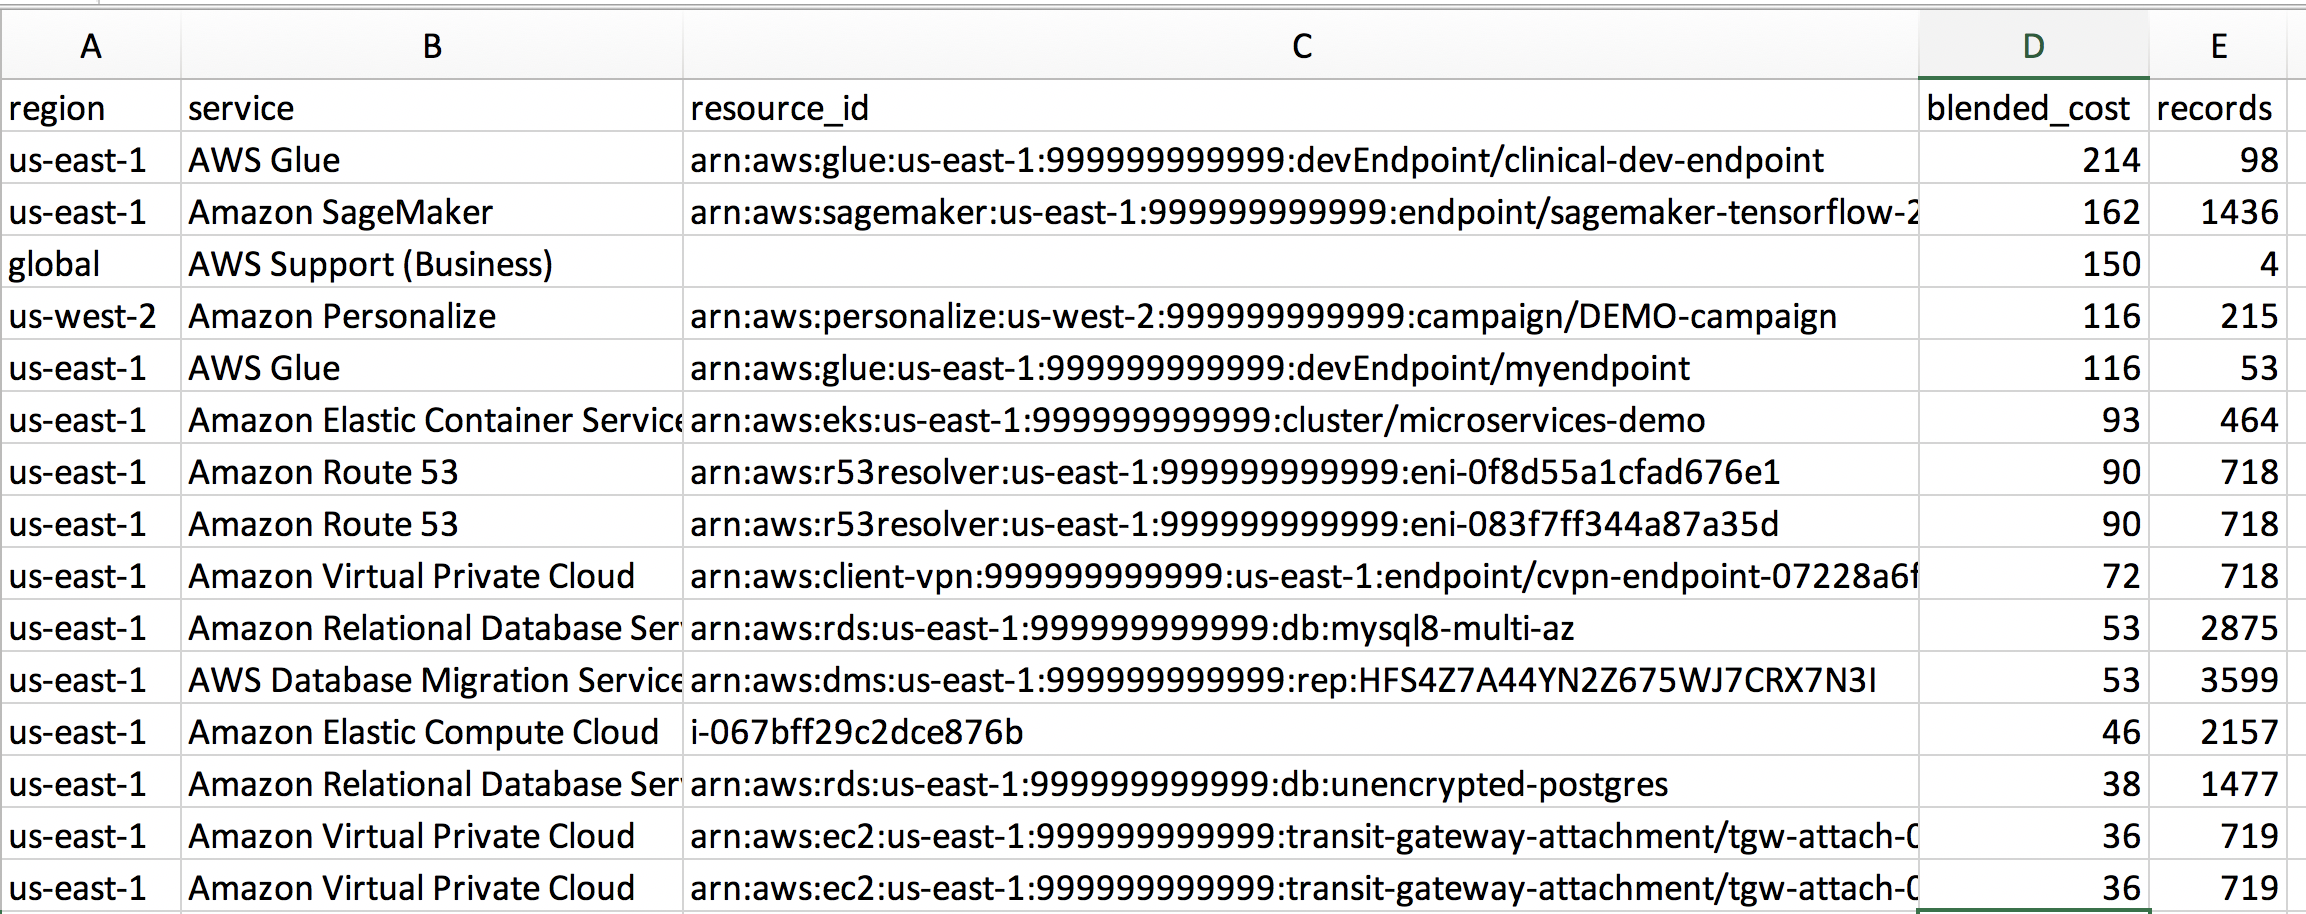
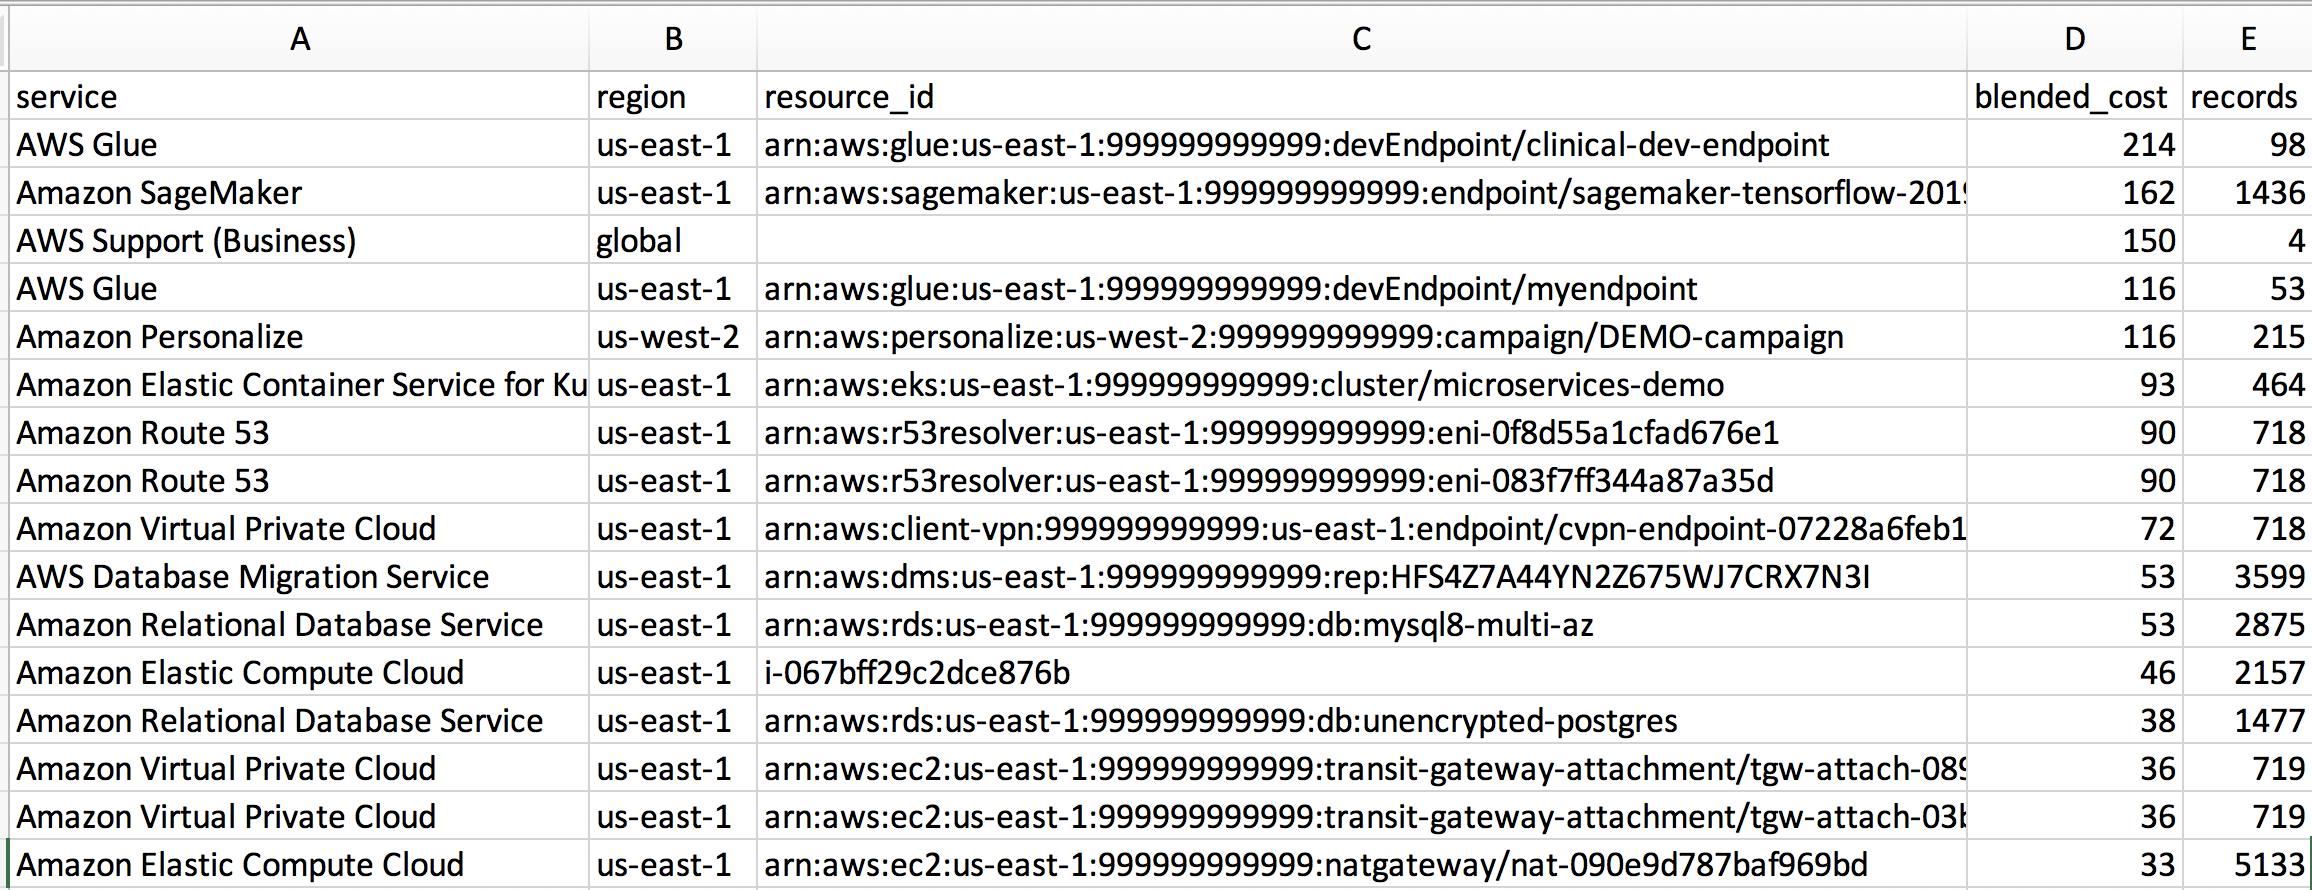
update

diff --git a/README.md b/README.md
@@ -43,14 +43,15 @@ ORDER BY  blended_cost DESC;
 Want to know how much a specific resource ID (e.g. EC2 instance, EBS volume, load balancer, etc.) is costing you? You can use this report *if* you have enabled resource IDs in your cost report. Note that enabling resource IDs may significantly increase the storage size of your cost reports in S3:
 
 ```sql
-SELECT product_region                       AS region,
+SELECT product_product_name                 AS service,
+       product_region                       AS region,
        line_item_resource_id                AS resource_id,
        round(sum(line_item_blended_cost),0) AS blended_cost,
        count(*)                             AS records
 FROM     hourly_cost_for_athena
 WHERE    line_item_usage_start_date >= (CURRENT_DATE - interval '30' day)
-and product_product_name = 'Amazon Elastic Compute Cloud'
-GROUP BY product_region, 
+GROUP BY product_product_name,
+         product_region, 
          line_item_resource_id
 HAVING   round(sum(line_item_blended_cost),0) <> 0
 ORDER BY  blended_cost DESC; 
